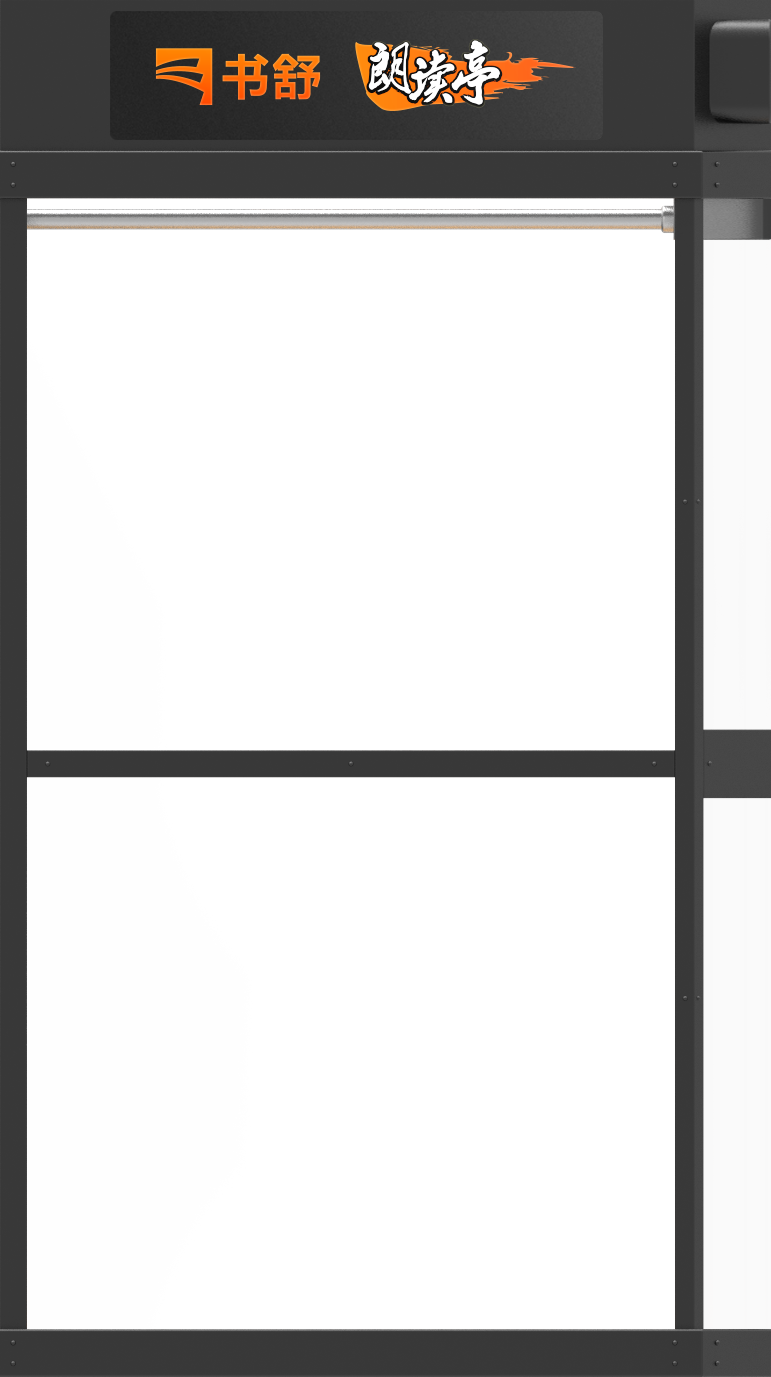
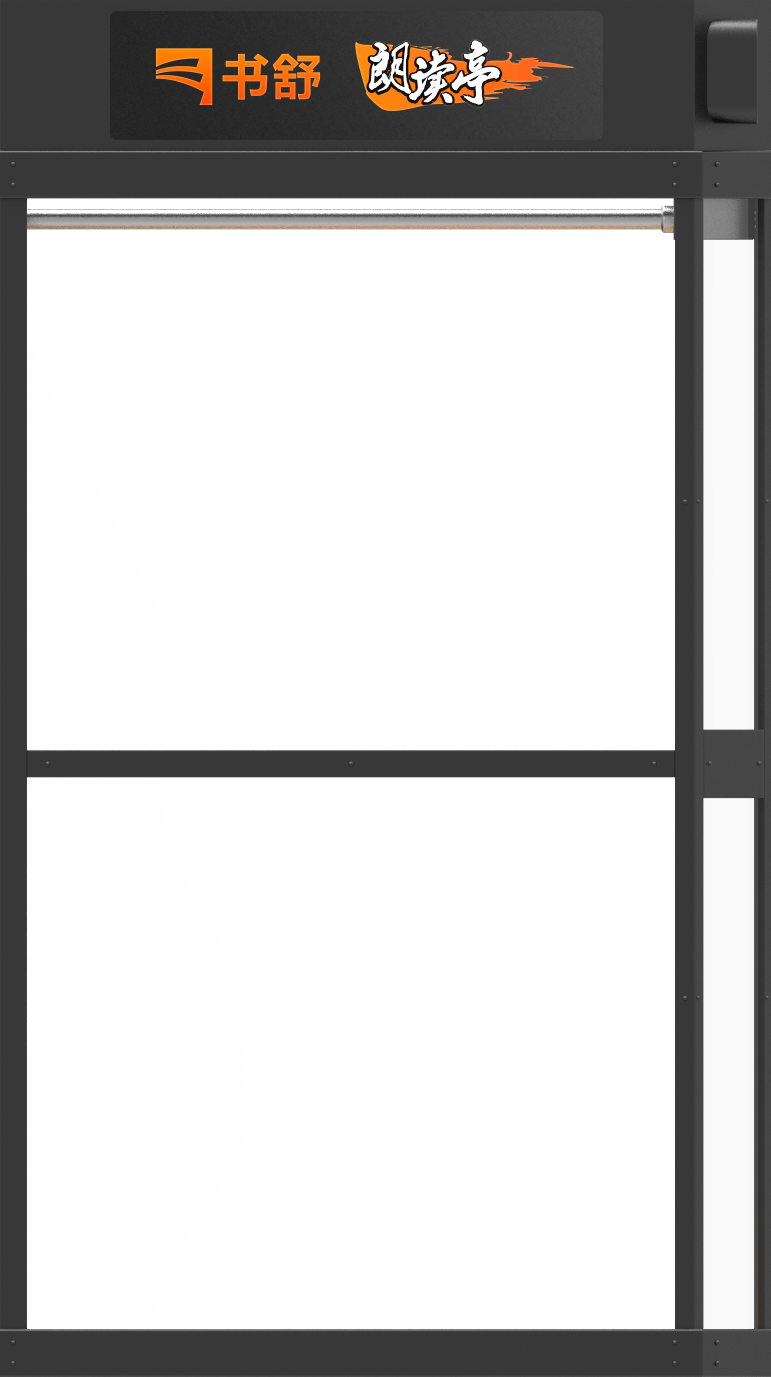
aaa

Changed region(s): [[0.965, 0.5621, 1.0, 0.968], [0.9339, 0.1249, 1.0, 0.5309], [0.9961, 0.0, 1.0, 0.0312]]

diff --git a/wx/global.css b/wx/global.css
@@ -75,3 +75,7 @@ body{position:relative;font-size:0.6rem!important; color:#333; line-height: 1rem
     background-size: 10rem 18rem;
     transform: translateX(0rem) translateY(0rem)  translateZ(-10rem) rotateY(-180deg);
 }
+.box {
+    /*animation: rotate 100s linear infinite;*/
+    -webkit-transform:rotateY(-25deg);
+}
